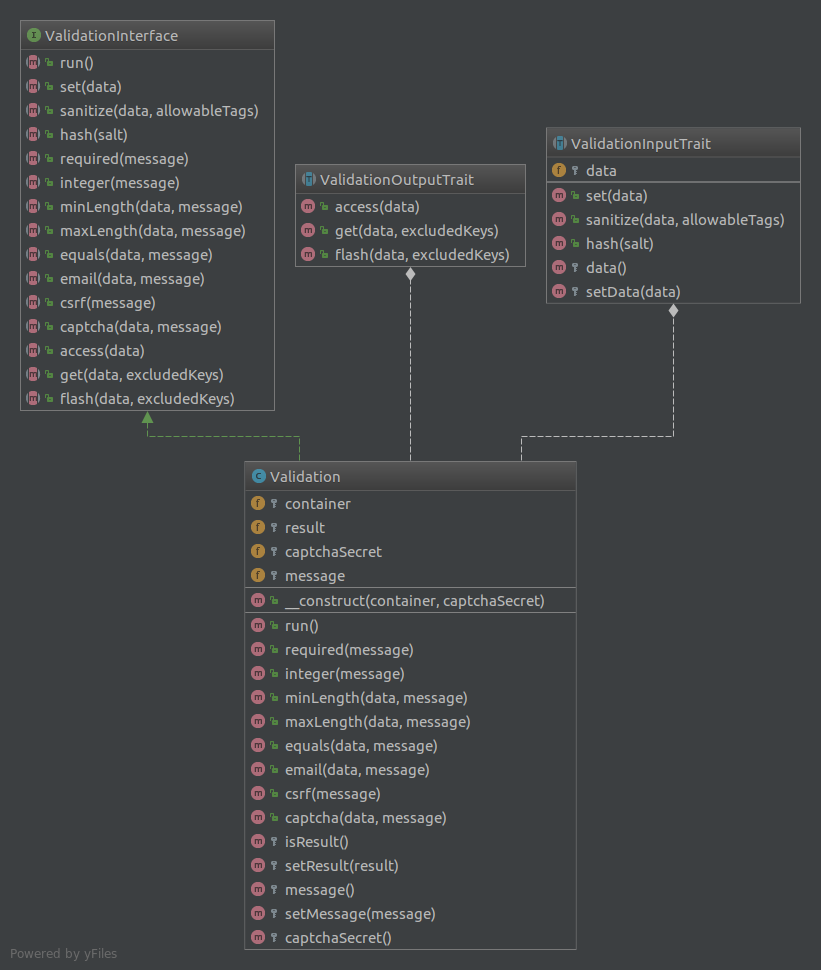
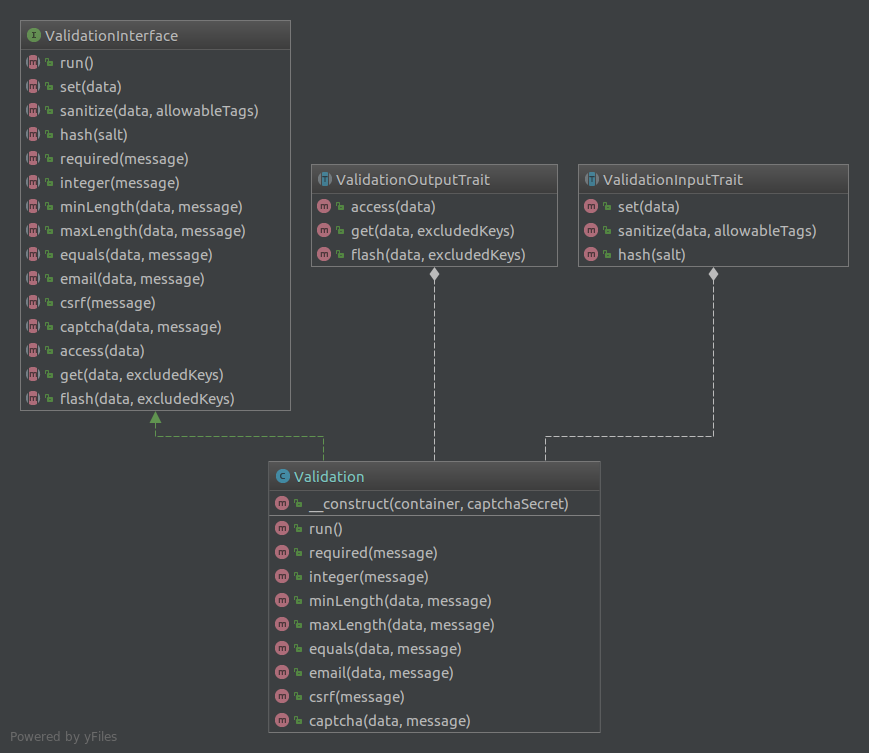
Update

diff --git a/docs.md b/docs.md
@@ -6,33 +6,29 @@
 <hr /><a id="class-rudravalidation"></a>
 ### Class: \Rudra\Validation
 
-> Класс валидации данных Class Validation
+> Class Validation
 
 | Visibility | Function |
 |:-----------|:---------|
 | public | <strong>__construct(</strong><em>\Rudra\Interfaces\ContainerInterface</em> <strong>$container</strong>, <em>null</em> <strong>$captchaSecret=null</strong>)</strong> : <em>void</em><br /><em>Validation constructor.</em> |
-| public | <strong>access(</strong><em>mixed</em> <strong>$data</strong>)</strong> : <em>bool</em><br /><em>Проверяет все результаты собранные в массив</em> |
-| public | <strong>captcha(</strong><em>mixed</em> <strong>$data</strong>, <em>string</em> <strong>$message=`'Пожалуйста заполните поле :: reCaptcha'`</strong>)</strong> : <em>[\Rudra\Interfaces\ValidationInterface](#interface-rudrainterfacesvalidationinterface)</em><br /><em>Проверяет верность заполнения капчи в случае прохождения результат проверки передается далее, если нет, то передает сообщение об ошибке в $this->message и $this->res = false</em> |
-| public | <strong>csrf(</strong><em>string</em> <strong>$message=`'csrf'`</strong>)</strong> : <em>[\Rudra\Interfaces\ValidationInterface](#interface-rudrainterfacesvalidationinterface)</em><br /><em>Проверяет верность данных csrf защиты в случае прохождения результат проверки передается далее, если нет, то передает сообщение об ошибке в $this->message и $this->res = false</em> |
-| public | <strong>email(</strong><em>mixed</em> <strong>$data</strong>, <em>\string</em> <strong>$message=`'Email указан неверно'`</strong>)</strong> : <em>[\Rudra\Interfaces\ValidationInterface](#interface-rudrainterfacesvalidationinterface)</em><br /><em>Проверяет email на соответствие в случае прохождения результат проверки передается далее, если нет, то передает сообщение об ошибке в $this->message и $this->res = false</em> |
-| public | <strong>equals(</strong><em>mixed</em> <strong>$data</strong>, <em>\string</em> <strong>$message=`'Пароли не совпадают'`</strong>)</strong> : <em>[\Rudra\Interfaces\ValidationInterface](#interface-rudrainterfacesvalidationinterface)</em><br /><em>Проверяет эквивалентность введенных данных в случае прохождения результат проверки передается далее, если нет, то передает сообщение об ошибке в $this->message и $this->res = false</em> |
-| public | <strong>flash(</strong><em>mixed</em> <strong>$data</strong>, <em>mixed</em> <strong>$excludedKeys</strong>)</strong> : <em>mixed</em><br /><em>Возвращает массив ошибок исключая при этом элементы массива $excludedKeys</em> |
-| public | <strong>get(</strong><em>mixed/array</em> <strong>$data</strong>, <em>array</em> <strong>$excludedKeys=array()</strong>)</strong> : <em>mixed</em><br /><em>Возвращает обработанные и проверенные данные исключая при этом элементы массива $excludedKeys</em> |
+| public | <strong>access(</strong><em>array</em> <strong>$data</strong>)</strong> : <em>bool</em> |
+| public | <strong>captcha(</strong><em>mixed</em> <strong>$data</strong>, <em>string</em> <strong>$message=`'Пожалуйста заполните поле :: reCaptcha'`</strong>)</strong> : <em>[\Rudra\Interfaces\ValidationInterface](#interface-rudrainterfacesvalidationinterface)</em> |
+| public | <strong>csrf(</strong><em>string</em> <strong>$message=`'csrf'`</strong>)</strong> : <em>[\Rudra\Interfaces\ValidationInterface](#interface-rudrainterfacesvalidationinterface)</em> |
+| public | <strong>email(</strong><em>mixed</em> <strong>$data</strong>, <em>\string</em> <strong>$message=`'Email указан неверно'`</strong>)</strong> : <em>[\Rudra\Interfaces\ValidationInterface](#interface-rudrainterfacesvalidationinterface)</em> |
+| public | <strong>equals(</strong><em>mixed</em> <strong>$data</strong>, <em>\string</em> <strong>$message=`'Пароли не совпадают'`</strong>)</strong> : <em>[\Rudra\Interfaces\ValidationInterface](#interface-rudrainterfacesvalidationinterface)</em> |
+| public | <strong>flash(</strong><em>mixed</em> <strong>$data</strong>, <em>mixed</em> <strong>$excludedKeys</strong>)</strong> : <em>array</em> |
+| public | <strong>get(</strong><em>array</em> <strong>$data</strong>, <em>array</em> <strong>$excludedKeys=array()</strong>)</strong> : <em>array</em> |
 | public | <strong>hash(</strong><em>\string</em> <strong>$salt=null</strong>)</strong> : <em>[\Rudra\Interfaces\ValidationInterface](#interface-rudrainterfacesvalidationinterface)</em> |
-| public | <strong>integer(</strong><em>\string</em> <strong>$message=`'Необходимо указать число'`</strong>)</strong> : <em>[\Rudra\Interfaces\ValidationInterface](#interface-rudrainterfacesvalidationinterface)</em><br /><em>Проверяет являются ли данные числом, в случае прохождения результат проверки передается далее, если нет, то передает сообщение об ошибке в $this->message и $this->res = false</em> |
-| public | <strong>maxLength(</strong><em>mixed</em> <strong>$data</strong>, <em>\string</em> <strong>$message=`'Указано слишком много символов'`</strong>)</strong> : <em>[\Rudra\Interfaces\ValidationInterface](#interface-rudrainterfacesvalidationinterface)</em><br /><em>Проверяет соответствуют ли данные максимальной длинне, в случае прохождения результат проверки передается далее, если нет, то передает сообщение об ошибке в $this->message и $this->res = false</em> |
-| public | <strong>minLength(</strong><em>mixed</em> <strong>$data</strong>, <em>\string</em> <strong>$message=`'Указано слишком мало символов'`</strong>)</strong> : <em>[\Rudra\Interfaces\ValidationInterface](#interface-rudrainterfacesvalidationinterface)</em><br /><em>Проверяет соответствуют ли данные минимальной длинне, в случае прохождения результат проверки передается далее, если нет, то передает сообщение об ошибке в $this->message и $this->res = false</em> |
-| public | <strong>required(</strong><em>\string</em> <strong>$message=`'Необходимо заполнить поле'`</strong>)</strong> : <em>[\Rudra\Interfaces\ValidationInterface](#interface-rudrainterfacesvalidationinterface)</em><br /><em>Проверяет необходимость заполнения поля - не меннее 1 символа, в случае прохождения результат проверки передается далее, если нет, то передает сообщение об ошибке в $this->message и $this->res = false</em> |
-| public | <strong>run()</strong> : <em>array</em><br /><em>Собирает результат работы методов класса</em> |
+| public | <strong>integer(</strong><em>\string</em> <strong>$message=`'Необходимо указать число'`</strong>)</strong> : <em>[\Rudra\Interfaces\ValidationInterface](#interface-rudrainterfacesvalidationinterface)</em> |
+| public | <strong>maxLength(</strong><em>mixed</em> <strong>$data</strong>, <em>\string</em> <strong>$message=`'Указано слишком много символов'`</strong>)</strong> : <em>[\Rudra\Interfaces\ValidationInterface](#interface-rudrainterfacesvalidationinterface)</em> |
+| public | <strong>minLength(</strong><em>mixed</em> <strong>$data</strong>, <em>\string</em> <strong>$message=`'Указано слишком мало символов'`</strong>)</strong> : <em>[\Rudra\Interfaces\ValidationInterface](#interface-rudrainterfacesvalidationinterface)</em> |
+| public | <strong>required(</strong><em>\string</em> <strong>$message=`'Необходимо заполнить поле'`</strong>)</strong> : <em>[\Rudra\Interfaces\ValidationInterface](#interface-rudrainterfacesvalidationinterface)</em> |
+| public | <strong>run()</strong> : <em>array</em> |
 | public | <strong>sanitize(</strong><em>\string</em> <strong>$data</strong>, <em>null</em> <strong>$allowableTags=null</strong>)</strong> : <em>[\Rudra\Interfaces\ValidationInterface](#interface-rudrainterfacesvalidationinterface)</em><br /><em>Очищает входящие параметры от ненужных данных</em> |
 | public | <strong>set(</strong><em>mixed</em> <strong>$data</strong>)</strong> : <em>[\Rudra\Interfaces\ValidationInterface](#interface-rudrainterfacesvalidationinterface)</em><br /><em>Устанавливаем данные без обработки</em> |
-| protected | <strong>captchaSecret()</strong> : <em>string</em> |
-| protected | <strong>data()</strong> : <em>string</em> |
-| protected | <strong>isResult()</strong> : <em>bool</em> |
-| protected | <strong>message()</strong> : <em>string</em> |
-| protected | <strong>setData(</strong><em>mixed</em> <strong>$data</strong>)</strong> : <em>void</em> |
-| protected | <strong>setMessage(</strong><em>mixed</em> <strong>$message</strong>)</strong> : <em>void</em> |
-| protected | <strong>setResult(</strong><em>bool/\boolean</em> <strong>$result</strong>)</strong> : <em>void</em> |
+| protected | <strong>getResult(</strong><em>array</em> <strong>$result</strong>, <em>array</em> <strong>$excludedKeys</strong>)</strong> : <em>array</em> |
+| protected | <strong>reset()</strong> : <em>void</em> |
+| protected | <strong>validate(</strong><em>bool/\boolean</em> <strong>$bool</strong>, <em>\string</em> <strong>$message</strong>)</strong> : <em>\Rudra\$this</em> |
 
 *This class implements [\Rudra\Interfaces\ValidationInterface](#interface-rudrainterfacesvalidationinterface)*
 
@@ -43,7 +39,7 @@
 
 | Visibility | Function |
 |:-----------|:---------|
-| public | <strong>access(</strong><em>mixed</em> <strong>$data</strong>)</strong> : <em>bool</em><br /><em>Проверяет все результаты собранные в массив</em> |
+| public | <strong>access(</strong><em>mixed/array</em> <strong>$data</strong>)</strong> : <em>bool</em><br /><em>Проверяет все результаты собранные в массив</em> |
 | public | <strong>captcha(</strong><em>mixed</em> <strong>$data</strong>, <em>string</em> <strong>$message=`'Пожалуйста заполните поле :: reCaptcha'`</strong>)</strong> : <em>[\Rudra\Interfaces\ValidationInterface](#interface-rudrainterfacesvalidationinterface)</em><br /><em>Проверяет верность заполнения капчи в случае прохождения результат проверки передается далее, если нет, то передает сообщение об ошибке в $this->message и $this->res = false</em> |
 | public | <strong>csrf(</strong><em>string</em> <strong>$message=`'csrf'`</strong>)</strong> : <em>[\Rudra\Interfaces\ValidationInterface](#interface-rudrainterfacesvalidationinterface)</em><br /><em>Проверяет верность данных csrf защиты в случае прохождения результат проверки передается далее, если нет, то передает сообщение об ошибке в $this->message и $this->res = false</em> |
 | public | <strong>email(</strong><em>mixed</em> <strong>$data</strong>, <em>\string</em> <strong>$message=`'Email указан неверно'`</strong>)</strong> : <em>[\Rudra\Interfaces\ValidationInterface](#interface-rudrainterfacesvalidationinterface)</em><br /><em>Проверяет email на соответствие в случае прохождения результат проверки передается далее, если нет, то передает сообщение об ошибке в $this->message и $this->res = false</em> |
